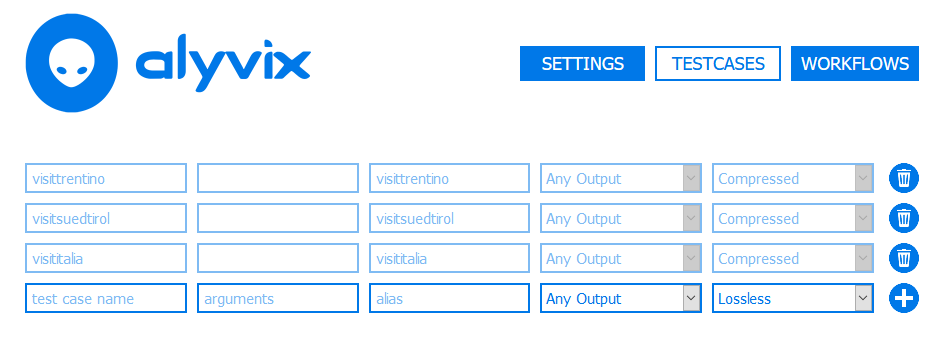
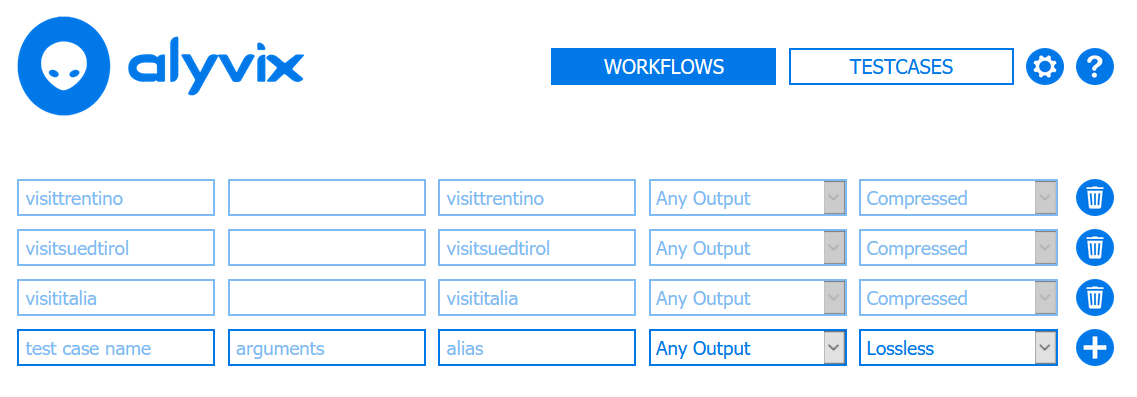
Commit the updates for version 1.3.1

Changed region(s): [[0.0, 0.4348, 0.9831, 0.9275], [0.4608, 0.1159, 0.9831, 0.2319], [0.0, 0.029, 0.3379, 0.3478]]

diff --git a/conf.py b/conf.py
@@ -64,9 +64,9 @@ author = u'Charles Callaway'
 # built documents.
 #
 # The short X.Y version.
-version = u'1.3.0'
+version = u'1.3.1'
 # The full version, including alpha/beta/rc tags.
-release = u'1.3.0'
+release = u'1.3.1'
 
 # The language for content autogenerated by Sphinx. Refer to documentation
 # for a list of supported languages.

diff --git a/session_management.rst b/session_management.rst
@@ -49,7 +49,7 @@ to the following endpoint in a browser on your private network:
 
 These global test case settings are:
 
-* **Test Case Path:** A Windows-format absolute or relative path
+* **Test Case Path:**  A Windows-format absolute or relative path
   (e.g., :file:`C:\\Alyvix\\Testcases\\`) that points to a directory containing all of the
   Alyvix 3 test cases that can be run by this instance of Alyvix Server.  If you add or update
   any test cases, or change this path, Alyvix Server will automatically and immediately pick up
@@ -145,5 +145,52 @@ The :guilabel:`Trash can` icon will remove an existing test case configuration (
 while the :guilabel:`Plus` icon will insert a row for a new session.  In the current version of
 Alyvix Server, you cannot modify an existing configuration; you will need to remove the row in
 question and re-add it.
+
+
+
+.. _session_management_nats:
+
+**************************
+NATS and InfluxDB Settings
+**************************
+
+Besides configuring the session settings of a particular server via its IP address, you can
+also set them to forward the data to a NATS server and a particular InfluxDB data table, allowing
+you to view the data in Grafana.  Forwarding data to NATS is complementary -- Alyvix Server will
+still continue to receive data, and it will still be visible via the measurement API.
+
+For this feature, you will need to configure communication parameters via the NATS/InfluxDB endpoint:
+
+.. table::
+   :class: tablecell-endpoint
+
+   +-----------------------------------------------------------------+
+   | NATS/InfluxDB Management Endpoint                               |
+   +-----------+-----------------------------------------------------+
+   | Endpoint: | :bolditalic:`https://<alyvix_server>/nats-influxdb` |
+   +-----------+-----------------------------------------------------+
+   | Example:  | :bolditalic:`https://localhost/nats-influxdb`       |
+   +-----------+-----------------------------------------------------+
+
+For each NATS instance you want to connect, you will need to fill in the following fields:
+
+* **Profile Name:**  A unique name for a new NATS connection instance that you will then be able
+  to assign to a given session at the bottom of the page.
+* **Certificates Path:**  If you use TLS encryption, this will point to the directory containing
+  your :file:`*.ca.crt` certificate authority file, :file:`*.crt` public key file, and
+  :file:`*.key` (not encrypted) private key file.  If you leave this field blank, encryption via
+  TLS will be disabled, and data will be sent in cleartext.
+* **IP/Port:**  The address of the NATS server.
+* **Subject Name:**  The InfluxDB database name to use.
+* **Measurement Name:**  The name of the measurements table within your InfluxDB subject where the
+  data should be stored when it arrives.
+
+.. image:: images/settings-nats01.png
+   :class: image-boxshadow-95
+   :alt: The NATS/InfluxDB settings interface.
+
+Once you add a NATS configurations at the top, you can assign it to one or more existing sessions.
+Each session can stream to at most one NATS-InfluxDB channel, although multiple sessions can send
+data to a single NATS-InfluxDB channel.
 
 |

diff --git a/release_notes/release_notes_13.rst b/release_notes/release_notes_13.rst
@@ -12,12 +12,51 @@
 
 .. _release_notes_v1_3:
 
-=======================
-Version 1.3.0 - Current
-=======================
+=======================================
+Version 1.3.0 - Version 1.3.1 (Current)
+=======================================
 
 Alyvix Server is a software tool for scaling up the management of instances of the Alyvix
 visual monitoring system.
+
+.. _release_notes_v1_3_1:
+
+.. topic:: Alyvix Server Version 1.3.1
+
+   **Release date:**  December 14th, 2020
+
+**Bug fixes**
+
+* Alyvix Server now allows setting session passwords that contain special characters
+
+**Frontend Control Panels**
+
+The following endpoint URLs are now:
+
+* :file:`<alyvix_server>/workflows`
+
+  * :file:`<alyvix_server>/workflow?username=<domain\username>`
+
+* :file:`<alyvix_server>/testcases`
+* :file:`<alyvix_server>/settings (or just <alyvix_server>/)`
+* :file:`<alyvix_server>/nats-influxdb`
+
+**Measurement Web APIs (v0)**
+
+The following endpoint URLs remain:
+
+* :file:`<alyvix_server>/v0/testcases`
+
+  * :file:`<alyvix_server>/v0/testcases/<testcasealias>`
+
+    * :file:`<alyvix_server>/v0/testcases/<testcasealias>?screenshots=[true, false]`
+
+  * :file:`<alyvix_server>/v0/testcases/<testcasealias>/reports`
+
+    * :file:`<alyvix_server>/v0/testcases/<testcasealias>/reports?runcode=<runcode>`
+
+* :file:`<alyvix_server>/v0/flows/run?username=<domain\username>`
+
 
 
 .. _release_notes_v1_3_0:
@@ -28,7 +67,8 @@ visual monitoring system.
 
 **New Features**
 
-* Alyvix Server can now stream measurements through multi-tenant NATS/InfluxDB TLS channels
+* Alyvix Server can now :ref:`stream measurements <session_management_nats>`
+  through multi-tenant NATS/InfluxDB TLS channels
 
 **Improvements**
 

diff --git a/install.rst b/install.rst
@@ -39,10 +39,10 @@ Alyvix:
    * Screen color depth: 24-bit RGB or 32-bit RGBA
    * OS: **Windows 64-bit** 10, Server 2012, 2016 or 2019
      (32-bit versions of Windows are :warn:`not` compatible with Alyvix)
-   * Hardware (for instance to run 4 sessions, a minimum of 6 CPU and 12GB RAM):
+   * Hardware (for instance to run 4 sessions, a minimum of 10 CPU and 20GB RAM):
 
-     * Processor:  2 Base CPU + 1 CPU per session
-     * Memory:  4GB Base + 2GB per session
+     * Processor:  2 CPUs Base + 2 CPUs per session
+     * Memory:  4GB RAM Base + 4GB RAM per session
 
 
 

diff --git a/measurement_web_apis.rst b/measurement_web_apis.rst
@@ -26,7 +26,7 @@ the results of test case runs.  There are two principal ways to retrieve measure
 
 .. warning::
 
-   All API level 0 endpoints (marked "/v0/" in Alyvix Server v1.3.0) are insecure.  They should
+   All API level 0 endpoints (marked "/v0/" in Alyvix Server v1.3.1) are insecure.  They should
    only be used when both caller and server are contained entirely within the same private
    network.
 

diff --git a/release_notes.rst b/release_notes.rst
@@ -30,7 +30,7 @@ Alyvix release follows the :iconlink:`ext|Semantic Versioning|https://semver.org
 
 Alyvix Server releases:
 
-* :ref:`Version 1.3.0 <release_notes_v1_3_0>`
+* :ref:`Version 1.3.0 <release_notes_v1_3_0>` --  :ref:`Version 1.3.1 <release_notes_v1_3_1>`
 * :ref:`Version 1.2.0 <release_notes_v1_2_0>` --  :ref:`Version 1.2.1 <release_notes_v1_2_1>`
 * :ref:`Version 1.1.0 <release_notes_v1_1_0>`
 
